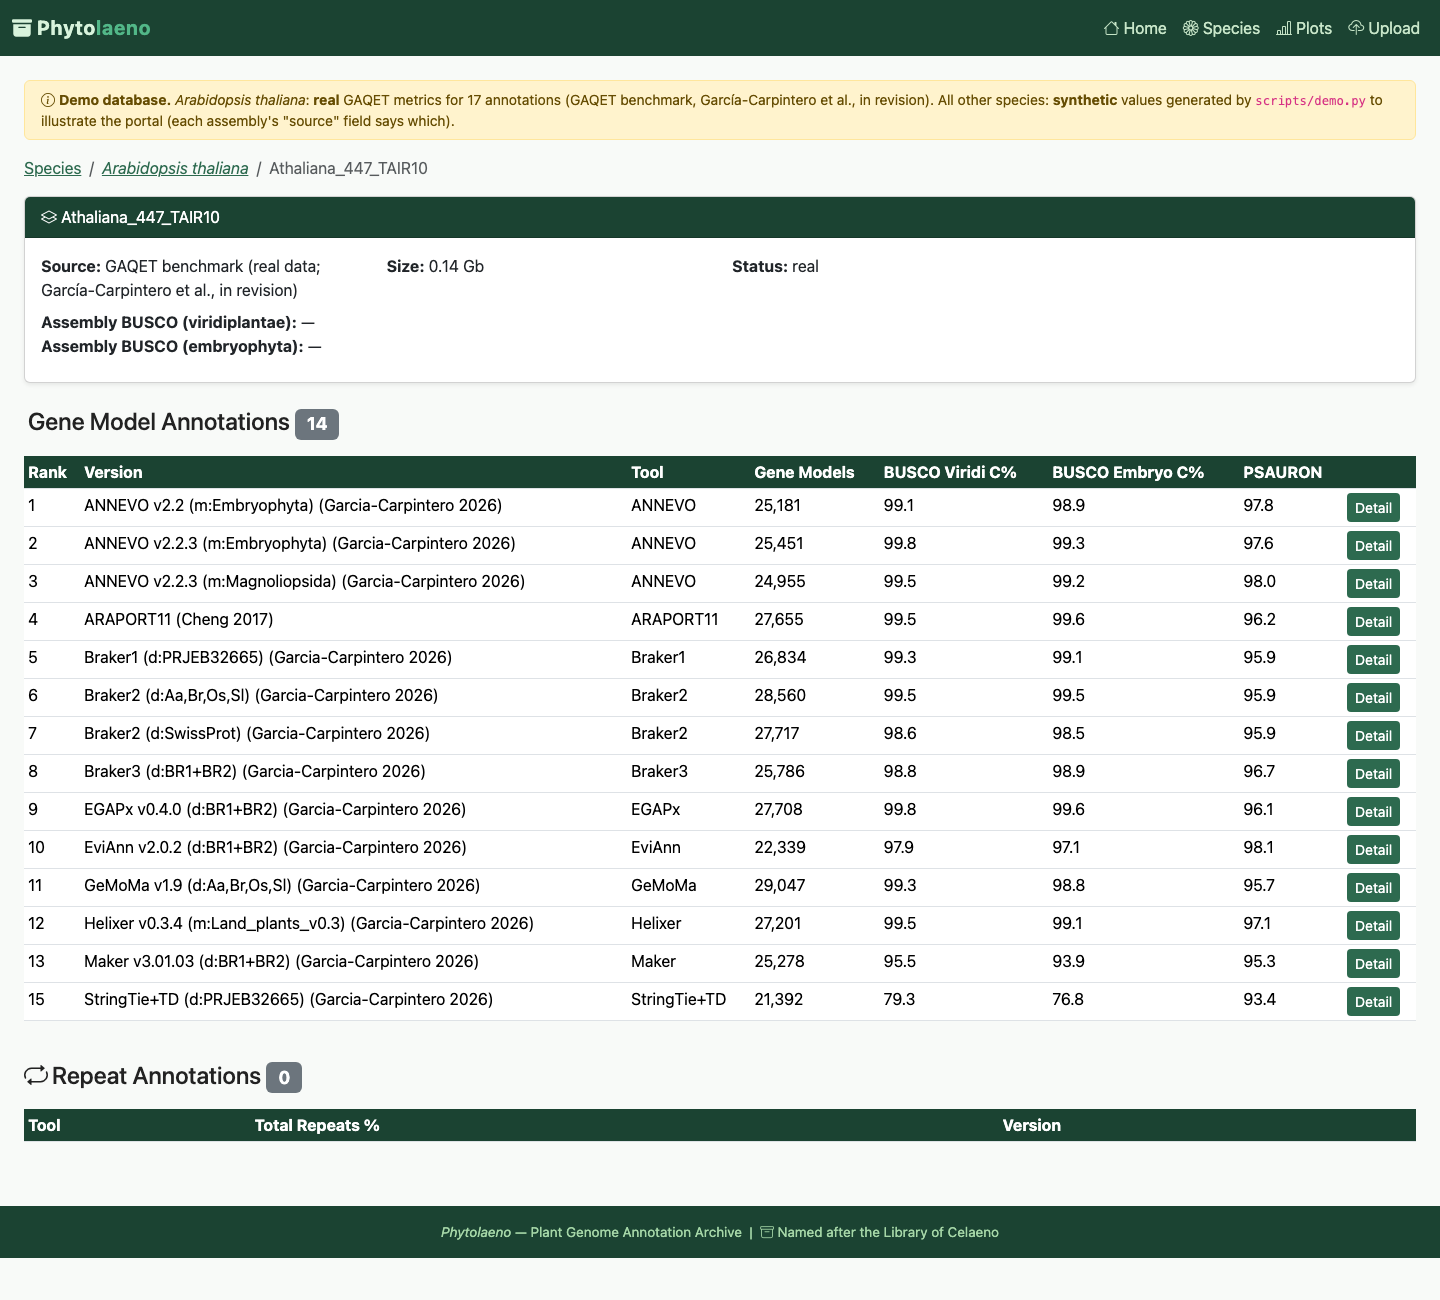
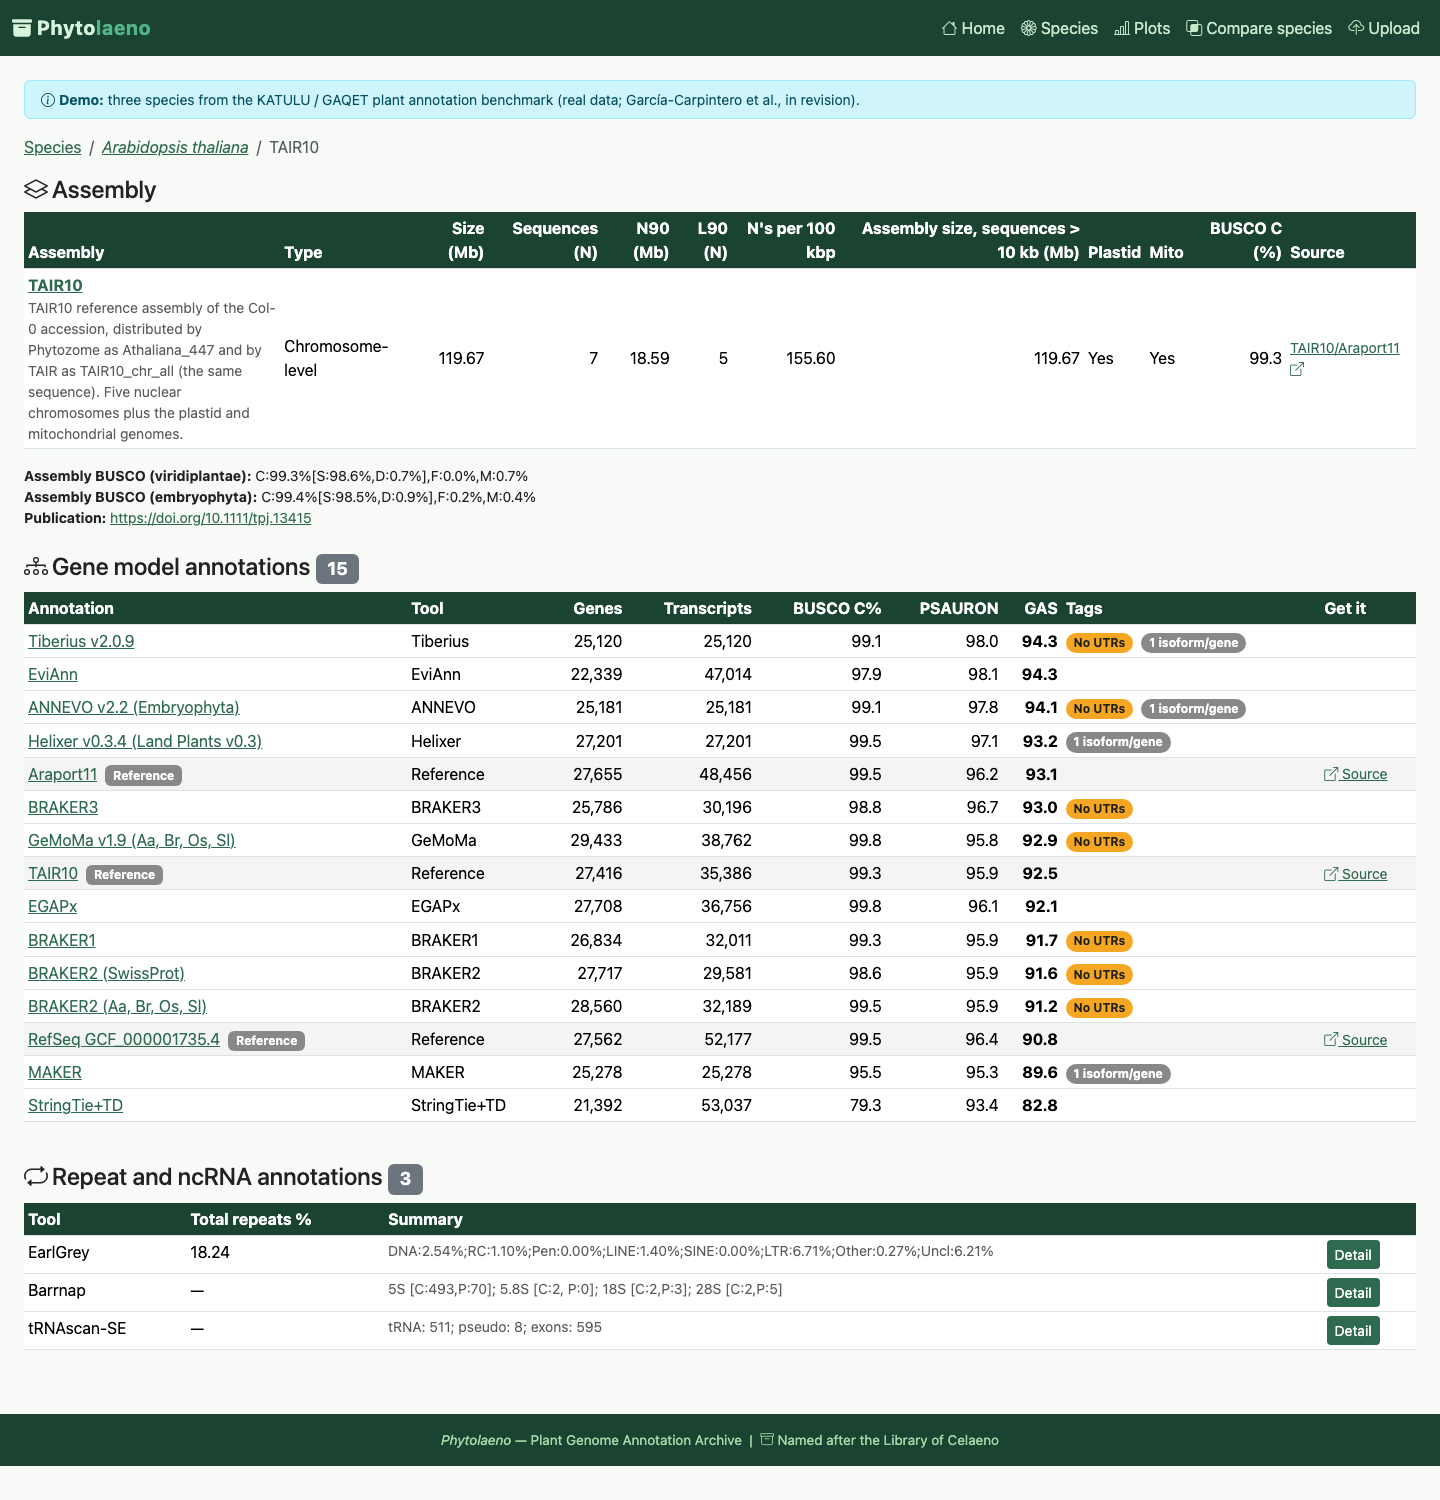
release: v0.3.0 real three-species demo

diff --git a/app/templates/species_detail.html b/app/templates/species_detail.html
@@ -39,7 +39,7 @@ OMArk, homology, DeTEnGA, PSAURON and start/stop-codon completeness (equal weigh
 <div class="card shadow-sm mb-3">
   <div class="card-header card-header-ph d-flex justify-content-between align-items-center">
     <span><i class="bi bi-cpu me-1"></i><a href="/assemblies/{{ asm.id }}" class="text-white fw-bold">{{ asm.version }}</a></span>
-    <span class="badge bg-light text-dark">{{ asm.gm_annotations | length }} annotations</span>
+    <span class="badge bg-light text-dark">{{ asm.gm_annotations | length }} annotation{{ "s" if asm.gm_annotations | length != 1 }}</span>
   </div>
   <div class="card-body p-2">
     {% if asm.gm_annotations %}{{ annotation_table(asm) }}{% else %}<p class="text-muted mb-0 p-2">No gene-model annotations.</p>{% endif %}

diff --git a/app/templates/_plots.html b/app/templates/_plots.html
@@ -15,7 +15,7 @@
         <option value="">All assemblies</option>
         {% for a in options.assemblies %}<option value="{{ a.id }}" {{ 'selected' if params.assembly_id == a.id }}>{{ a.version }}</option>{% endfor %}
       </select></div>
-    <div class="col-md-3"><label class="form-label mb-0">Metric (bars and tools)</label>
+    <div class="col-md-3"><label class="form-label mb-0">Metric</label>
       <select name="metric" class="form-select form-select-sm" onchange="submitPlots()">
         {% for k, lbl in options.metrics %}<option value="{{ k }}" {{ 'selected' if params.metric == k }}>{{ lbl }}</option>{% endfor %}
       </select></div>

diff --git a/README.md b/README.md
@@ -5,7 +5,7 @@
 </p>
 
 <p align="center">
-  <img src="https://img.shields.io/badge/version-v0.2.0-teal"/>
+  <img src="https://img.shields.io/badge/version-v0.3.0-teal"/>
   <img src="https://img.shields.io/badge/python-3.10%2B-blue"/>
   <img src="https://img.shields.io/badge/platform-Linux%20%7C%20macOS-lightgrey"/>
   <img src="https://img.shields.io/badge/license-MIT-green"/>
@@ -32,20 +32,36 @@ The system has four interconnected parts:
 ## Try the demo
 
 The demo runs the full portal on a small SQLite database, with no PostgreSQL
-needed. It contains:
+needed. **All data are real**: three species from the KATULU / GAQET plant
+annotation benchmark (García-Carpintero *et al.*, in revision).
 
-- ***Arabidopsis thaliana*: real data.** GAQET quality metrics for 17 genome
-  annotations on four assemblies. These are the public references (Araport11,
-  RefSeq, TAIR10, TAIR12) and 13 annotation-tool runs (ANNEVO, Helixer, BRAKER,
-  EGAPx, EviAnn, GeMoMa, MAKER, StringTie+TD) from the GAQET benchmark
-  (García-Carpintero *et al.*, in revision). Source table:
-  [`demo/data/Athaliana_GAQET_benchmark.tsv`](demo/data/Athaliana_GAQET_benchmark.tsv).
-- **Eleven other plant species: synthetic data.** The values are generated
-  reproducibly (`random.seed(42)`) to show how the portal compares many genomes.
-  The species names are real; the numbers are not results.
+| Species | Assemblies | Annotations |
+|---|---|---|
+| *Arabidopsis thaliana* | TAIR10, TAIR12 (T2T) | 16 |
+| *Oryza sativa* | Osativa_204 (MSU r7) | 12 |
+| *Cucumis sativus* | ChineseLong v3 (CuGenDB), 9930 v3 (RefSeq) | 13 |
 
-A banner on every page and the assembly *Source* field state which records
-are real and which are synthetic.
+The annotations are the public references (Araport11, TAIR10, TAIR12, MSU r7,
+CuGenDB, three NCBI RefSeq) and 33 annotation-tool runs (ANNEVO, Helixer,
+Tiberius, BRAKER1/2/3, EGAPx, EviAnn, GeMoMa, MAKER, StringTie+TD). Source tables:
+[`demo/data/`](demo/data/), extracted with `scripts/build_demo_data.py`.
+
+What a reviewer can do in two minutes:
+
+- **Species → Assemblies → Annotations.** Each species page has links to NCBI
+  Taxonomy, GoaT and Wikispecies, an assembly table (type, size, sequences,
+  N90/L90, gaps, organelles, BUSCO) and, for each assembly, the annotations
+  side by side, ranked by GAQET's **Global Annotation Score (GAS)**.
+- **Insight tags.** *No UTRs* flags annotations where fewer than 1% of
+  transcripts have a UTR (most ab initio and AI-based tools); *1 isoform/gene*
+  marks tools that predict a single transcript per gene. Click a tag to read
+  why it matters.
+- **Plots.** Per species: the chosen metric per annotation, the same tool on
+  each assembly, and the **GAQET radar** with sliders to change the weight of
+  each analysis in the GAS and watch the ranking move. **Compare species**
+  shows how each tool does across the three genomes.
+- **Get the data.** Public annotations link to their source (Phytozome, NCBI,
+  TAIR, RGAP, CuGenDB); the benchmark runs will link to Zenodo.
 
 **Option 1: in your browser, no installation.** Click
 [**Open in GitHub Codespaces**](https://codespaces.new/aubombarely/phytolaeno?quickstart=1)
@@ -69,13 +85,13 @@ Use `python scripts/demo.py --no_serve` to only build the database
 
 ## Screenshots
 
-All screenshots come from the demo database.
+All screenshots come from the demo database (real data).
 
 | | |
 |---|---|
-| **Home:** archive summary<br><img src="docs/screenshots/01_home.png" width="420"/> | **Species list:** all species in the archive<br><img src="docs/screenshots/02_species_list.png" width="420"/> |
-| **Species:** *A. thaliana*, four assemblies and 17 annotations (real GAQET data)<br><img src="docs/screenshots/03_species_detail.png" width="420"/> | **Assembly:** annotations of one assembly side by side<br><img src="docs/screenshots/04_assembly_detail.png" width="420"/> |
-| **Annotation:** full GAQET QC of one gene-model annotation (ANNEVO v2.2.3; real data, note the missing UTRs)<br><img src="docs/screenshots/05_annotation_detail.png" width="420"/> | **Plots:** BUSCO, gene counts, exon/intron length, PSAURON and repeat content across annotations and tools<br><img src="docs/screenshots/06_plots.png" width="420"/> |
+| **Species:** *A. thaliana* — links, assembly metrics, annotations ranked by GAS with tags<br><img src="docs/screenshots/03_species_detail.png" width="420"/> | **Plots:** rice annotations, per-assembly comparison and the GAQET radar<br><img src="docs/screenshots/06_plots.png" width="420"/> |
+| **Annotation:** full GAQET QC of ANNEVO on TAIR10 (note *No UTRs*)<br><img src="docs/screenshots/05_annotation_detail.png" width="420"/> | **Compare species:** each tool across the three genomes<br><img src="docs/screenshots/07_compare.png" width="420"/> |
+| **Assembly:** TAIR10 and its 15 annotations<br><img src="docs/screenshots/04_assembly_detail.png" width="420"/> | **Home**<br><img src="docs/screenshots/01_home.png" width="420"/> |
 
 ---
 
@@ -431,8 +447,9 @@ phytolaeno/
 │   ├── generate_manifest.py          # Part 2 — manifest generation
 │   ├── collect_annotation_stats.py   # Part 3 — stats collection
 │   └── import_excel.py               # Bulk import from Excel benchmark table
-├── scripts/demo.py                   # one-command demo (SQLite)
-├── demo/data/                        # real A. thaliana GAQET table used by the demo
+├── scripts/demo.py                   # one-command demo (SQLite, real data)
+├── scripts/build_demo_data.py        # extracts demo/data/ from the benchmark spreadsheet
+├── demo/data/                        # real 3-species demo tables
 ├── docs/screenshots/                 # README screenshots (from the demo)
 ├── .devcontainer/                    # GitHub Codespaces demo configuration
 ├── tests/                            # pytest suite (SQLite, no PostgreSQL needed)

diff --git a/CLAUDE.md b/CLAUDE.md
@@ -4,7 +4,7 @@ Plant genome annotation management system: directory scaffolding, manifest
 generation, stats collection, and a FastAPI + PostgreSQL web portal for
 browsing and comparing assemblies and annotations.
 
-**Current version:** v0.2.0 (2026-11-06)
+**Current version:** v0.3.0 (2026-11-06)
 
 This project follows the shared coding blueprint at `../CLAUDE.md` where
 applicable. Note that the web application (`app/`) follows FastAPI conventions
@@ -33,9 +33,14 @@ standalone scripts in `scripts/` and note the web-specific deviations below.
 - Dependencies pinned in `requirements.txt`; keep SQLAlchemy on 2.0.x
   (2.1 defaults to psycopg v3) unless the driver is switched.
 - Tests: `python -m pytest -q tests` (SQLite, no PostgreSQL needed).
-- Demo: `python scripts/demo.py` (real A. thaliana GAQET table + 11 synthetic
-  species; banner via PHYTOLAENO_DEMO=1). Codespaces config in `.devcontainer/`.
-  Screenshots in `docs/screenshots/` are taken from the demo with headless Chrome.
+- Demo: `python scripts/demo.py` — real data only (3 species, 5 assemblies, 41
+  annotations) from `demo/data/`, regenerated with `scripts/build_demo_data.py`
+  from the benchmark spreadsheet + collected QUAST metrics. Descriptions/links in
+  `demo/data/descriptions.tsv` (user-reviewed); Zenodo URLs go in
+  `demo/data/downloads.tsv`. GAS/axes in `app/metrics.py` must stay in sync with
+  GAQET2 `gaqet_plot.py` (revision branch). Codespaces config in `.devcontainer/`.
+  Screenshots in `docs/screenshots/` are taken from the demo with headless Chrome
+  (kill Chrome after each file appears; it does not exit by itself).
 
 ## Blueprint compliance status
 

diff --git a/CHANGELOG.md b/CHANGELOG.md
@@ -2,6 +2,31 @@
 
 All notable changes to Phytolaeno are documented here.
 
+## [v0.3.0] — 2026-11-06
+
+### Added
+- All-real demo: *Arabidopsis thaliana*, *Oryza sativa* and *Cucumis sativus*
+  (5 assemblies, 41 annotations) from the KATULU / GAQET benchmark, extracted
+  by `scripts/build_demo_data.py` into `demo/data/`.
+- Species pages follow Species → Assemblies → Annotations: descriptions and
+  source links, NCBI Taxonomy / GoaT / Wikispecies links, an assembly table
+  with QUAST metrics (type, size, sequences, N90/L90, N's per 100 kbp,
+  sequences > 10 kb, plastid and mitochondrion), and per-assembly annotation
+  tables ranked by the Global Annotation Score.
+- `app/metrics.py`: GAQET radar axes and Global Annotation Score (GAS),
+  following GAQET2's `gaqet_plot.py` (revision branch), with per-analysis
+  weights; insight tags (*No UTRs* when < 1% of transcripts have a UTR;
+  *1 isoform/gene*; a micro-exon tag that stays hidden until data exist).
+- Plots: per-species selectors (assembly, annotations, metric), annotation dot
+  plot, per-assembly tool comparison, interactive GAQET radar with GAS weight
+  sliders, repeat content; new **Compare species** page (`/compare`).
+- New nullable columns for assembly metrics, descriptions, links, Zenodo URL,
+  micro-exon percentage and GAS (`import_excel.py` unchanged).
+- Tests for data extraction, metrics, pages and plots (47 in total).
+
+### Changed
+- The 11 synthetic species and the "synthetic data" banner are removed.
+
 ## [v0.2.0] — 2026-11-06
 
 ### Added
